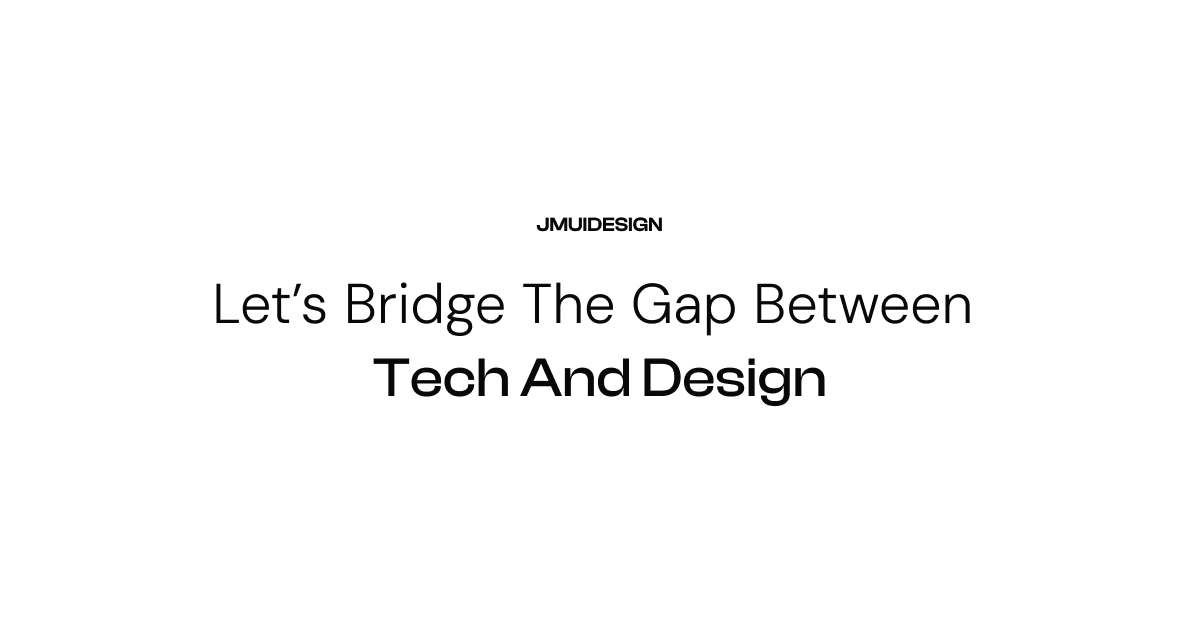
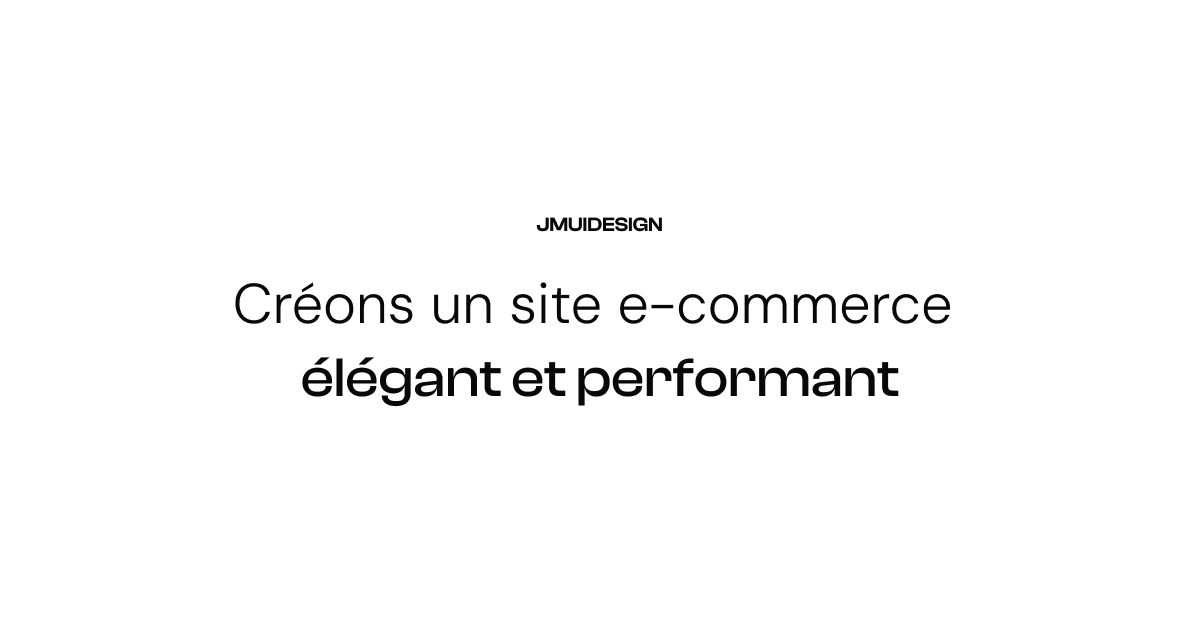
chore: update SEO

Changed region(s): [[0.1542, 0.4524, 0.8325, 0.5429], [0.2467, 0.5429, 0.7708, 0.6635]]

diff --git a/app.vue b/app.vue
@@ -18,7 +18,7 @@ useHead({
     {
       name: "description",
       content:
-        "J'aide les agences à créer des produits web élégants en faisant le lien entre les équipes tech et design.",
+        "J'accompagne les agences et marques pour créer un site e-commerce élégant et performant",
     },
     {
       property: "og:title",
@@ -27,7 +27,7 @@ useHead({
     {
       property: "og:description",
       content:
-        "J'aide les agences à créer des produits web élégants en faisant le lien entre les équipes tech et design.",
+        "J'accompagne les agences et marques pour créer un site e-commerce élégant et performant",
     },
     {
       property: "og:image",
